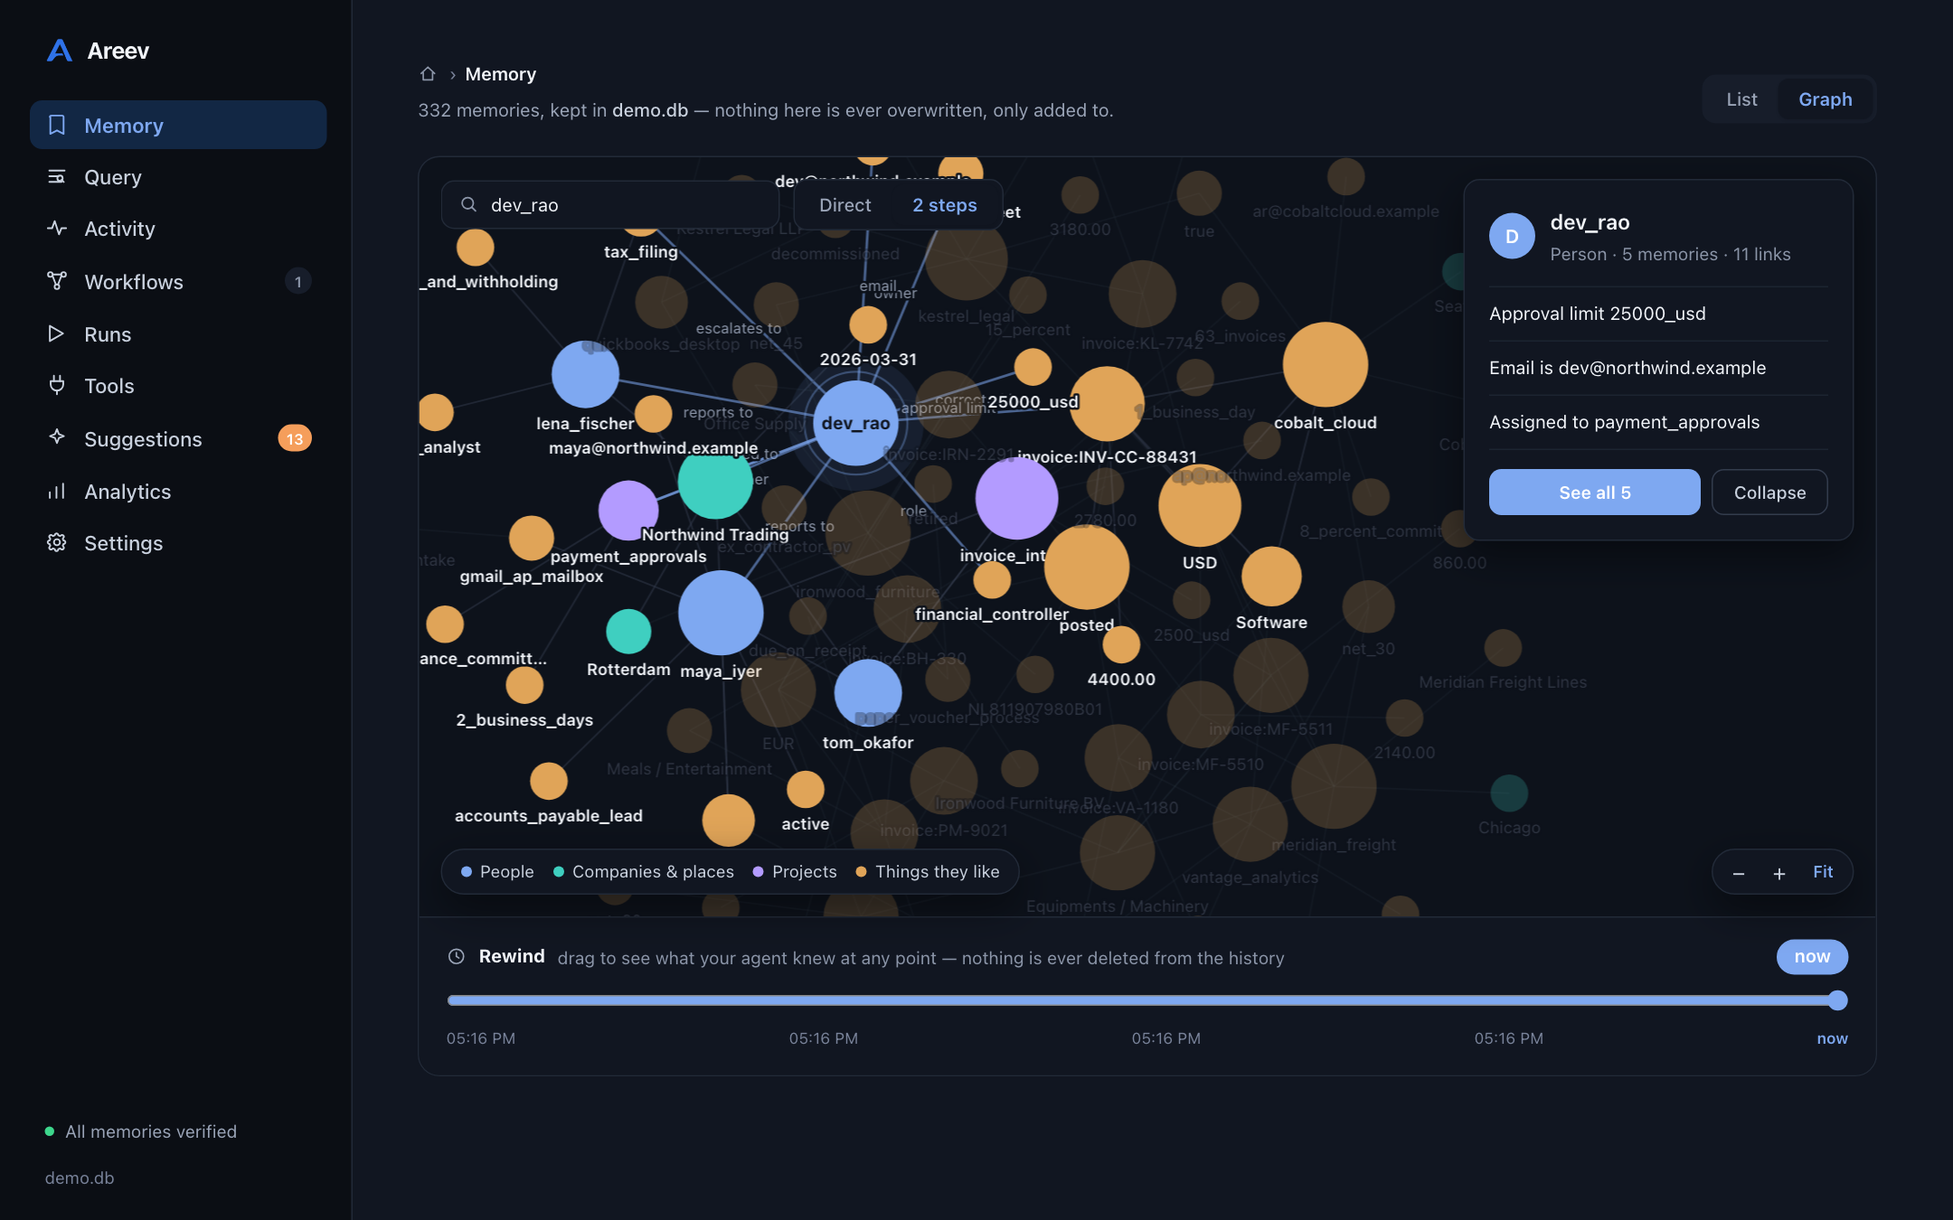
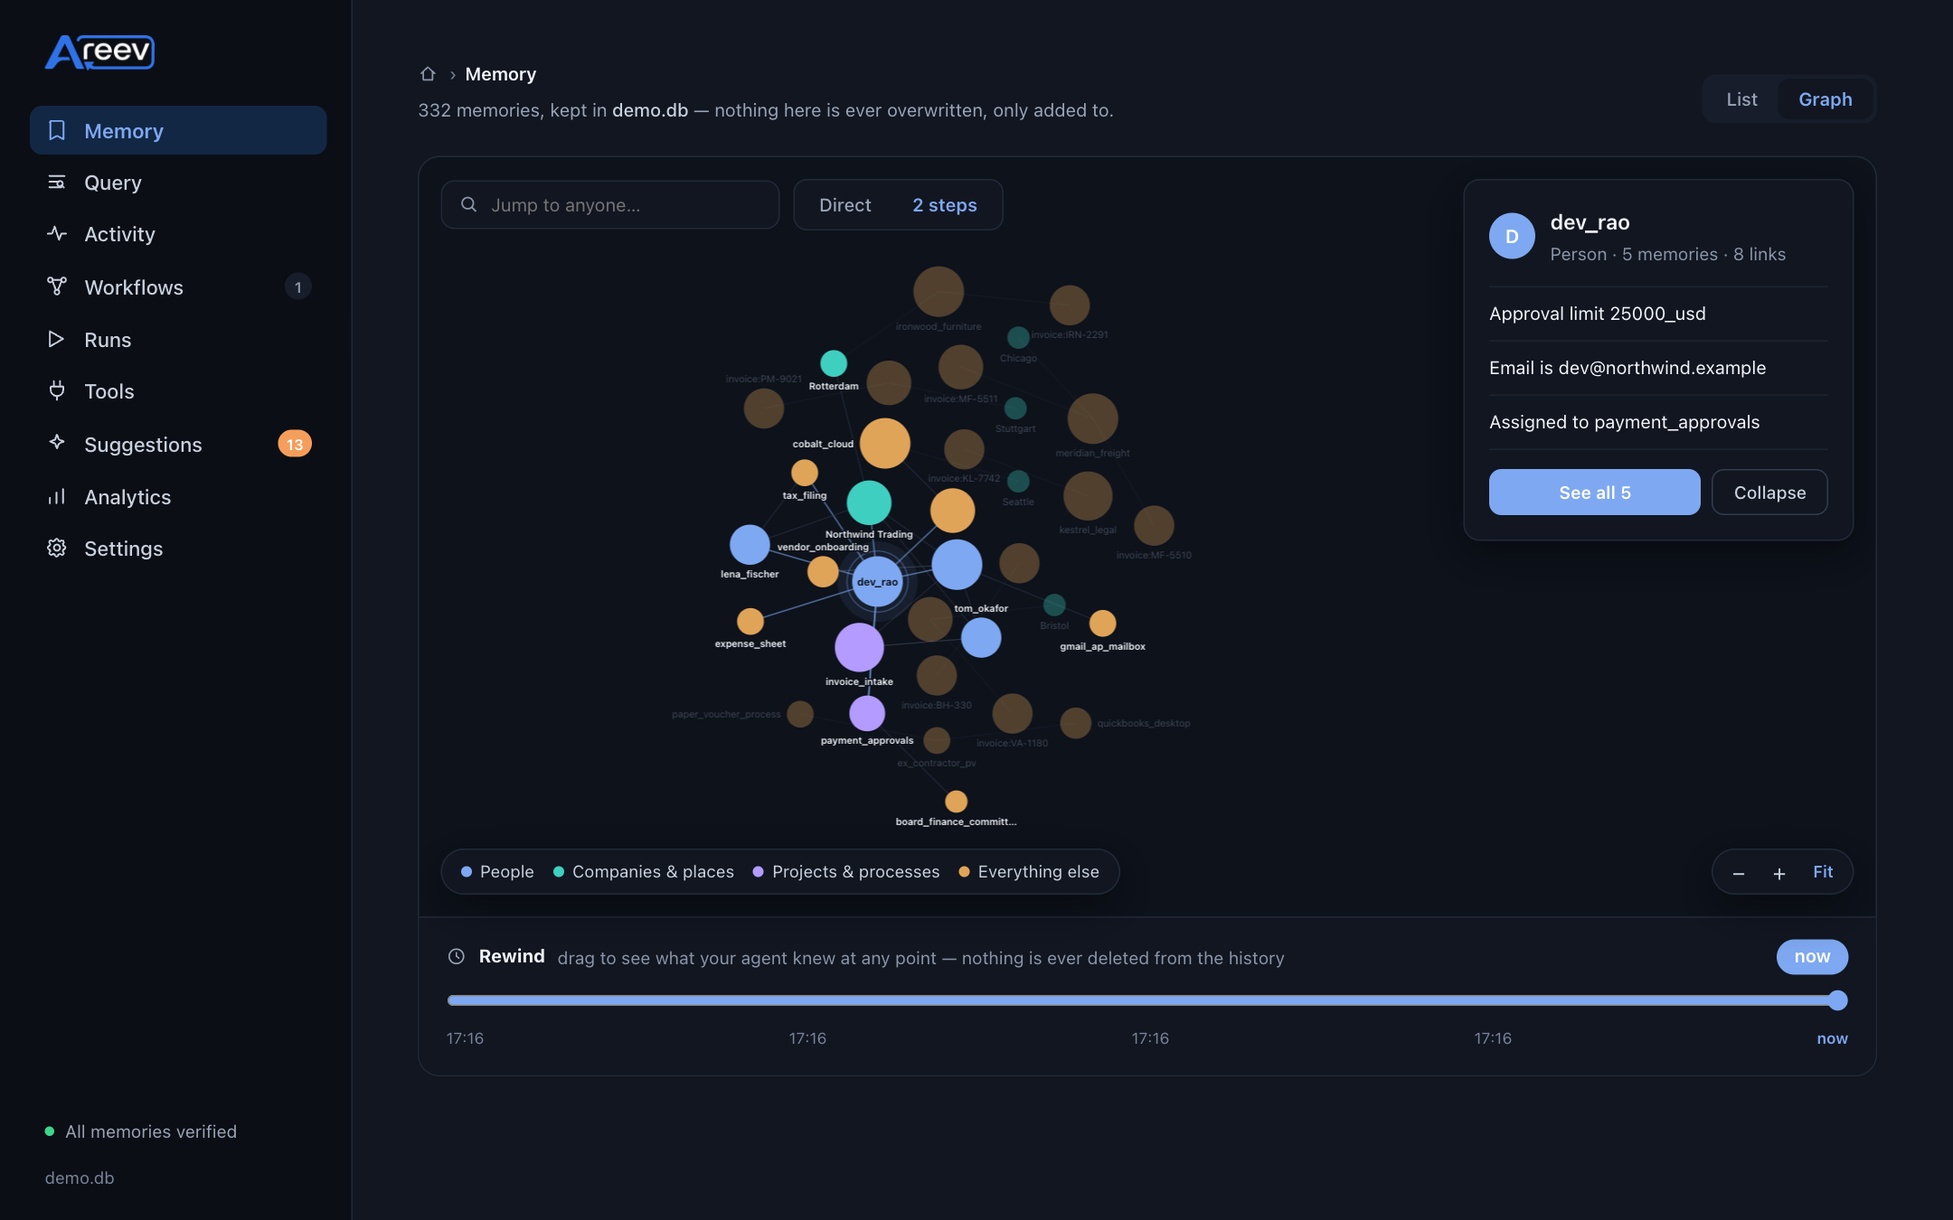
Console: the v2 wordmark, and a memory graph that draws entities
The graph drew every fact's right-hand side as a node, so `amount:
4400.00`, `currency: USD` and `payment_terms: net_45` were peers of the
people and vendors they describe: 91 nodes and 126 edges for a file that
holds about 35 real entities. An object is now kept only when the memory
also knows something ABOUT it (it is a subject somewhere too) or it
arrived through a relation that points at an entity — 35 nodes, 36 edges,
no orphans, and the accounts-payable story is legible: a reporting chain
at Northwind Trading, invoices pointing at their vendors, processes owned
by named people. A file whose relations we don't recognise could filter
down to nothing, so a graph left with fewer than three linked entities
falls back to unfiltered rather than an empty canvas.

Three things surfaced while re-shooting it:

- Labels printed on top of each other and across the circles. They are
  now placed by priority (focused node, then the relations coming off it,
  then names, near before far), each trying several positions before it
  is dropped, with the circles treated as obstacles.
- Start positions came from Math.random(), so every reload reshuffled the
  picture and no screenshot was reproducible. They are seeded from the
  node name instead; re-shooting now produces a byte-identical PNG.
- build() re-converged the whole layout on every call, which meant
  dragging the rewind scrubber shook the graph under the cursor. A
  rebuild that places nothing new keeps the positions it has.
[…]

diff --git a/crates/areev-server/src/console.html b/crates/areev-server/src/console.html
@@ -280,8 +280,17 @@
            font-family:inherit; text-align:left; cursor:pointer; width:100%; border-radius:9px;
            padding-top:4px; padding-bottom:4px; margin:-4px 0; transition:background .12s; }
   .brand:hover { background:var(--raise); }
-  .brand .mark { width:22px; height:22px; flex-shrink:0; display:block; }
-  .brand b { font-size:17px; font-weight:700; color:var(--ink); letter-spacing:-.02em; }
+  /* The full v2 lockup (A + reev + improvement loop), not the A alone —
+     two bitmaps because the dark variant sets `reev` in white, which
+     BRAND.md requires as its own artwork rather than a CSS recolor. */
+  .brand .logo { height:26px; width:auto; display:block; }
+  .brand .logo.dark { display:none; }
+  @media (prefers-color-scheme: dark) {
+    :root:not([data-theme="light"]) .brand .logo.light { display:none; }
+    :root:not([data-theme="light"]) .brand .logo.dark { display:block; }
+  }
+  :root[data-theme="dark"] .brand .logo.light { display:none; }
+  :root[data-theme="dark"] .brand .logo.dark { display:block; }
   .nav { display:flex; flex-direction:column; gap:2px; }
   .nav-item { display:flex; align-items:center; gap:11px; padding:9px 11px; border-radius:9px;
               cursor:pointer; color:var(--text); font-size:15px; font-weight:500; border:0; background:none;
@@ -520,7 +529,9 @@
   /* The canvas is the reason this page exists — give it the room, not a
      token box. Scales with the viewport rather than a fixed guess, with a
      floor for short windows. */
-  #wfcanvas { display:block; width:100%; height:calc(100vh - 260px); min-height:480px; cursor:default; }
+  /* A plan is a wide, short strip, so the floor here only needs to leave
+     room to drag a node clear of its row. */
+  #wfcanvas { display:block; width:100%; height:calc(100vh - 260px); min-height:380px; cursor:default; }
   #wfcanvas.connecting { cursor:crosshair; }
   #wftools { top:16px; left:16px; display:flex; align-items:center; gap:9px; background:none; border:0; box-shadow:none; }
   #wflegend { bottom:16px; left:16px; display:flex; align-items:center; flex-wrap:wrap; gap:8px 14px;
@@ -770,8 +781,8 @@
 <div id="shell">
   <nav id="rail">
     <button class="brand" id="brandBtn" type="button" title="Memory">
[1 lines of base64/hex data omitted]
-      <b>Areev</b>
[2 lines of base64/hex data omitted]
     </button>
 
     <div class="nav" id="nav">
@@ -1449,6 +1460,20 @@ const PERSONISH = new Set(['prefers','likes','dislikes','works_at','lives_in','e
 const ORGISH = new Set(['works_at','employed_by','member_of','customer_of']);
 const PROJECTISH = new Set(['owns_project','maintains','works_on','assigned_to']);
 const PLACEISH = new Set(['lives_in','based_in','headquartered_in','located_in']);
+/* Relations whose object is another entity; everything else names a VALUE
+   that belongs to its subject. `vendor: cobalt_cloud` is an edge between two
+   things the memory knows; `amount: 4400.00` is a property of one invoice,
+   and drawing it as a peer node is what turns a graph of twenty entities
+   into a hairball of two hundred. Used by the graph only — the list view
+   wants every value it can show. */
+const ENTITY_REL = new Set(['works_at','employed_by','member_of','customer_of','reports_to',
+  'assigned_to','owner','vendor','escalates_to','corrected_by','owns_project','maintains',
+  'works_on','knows','collaborates_with','lives_in','based_in','headquartered_in','located_in',
+  'manages','supervises','part_of','belongs_to','depends_on','supplier','contact','approver']);
+/* Plainly a literal — a number, an amount, a date, a boolean, a term like
+   `net_45`. Vetoed even under an entity relation, so an unfamiliar schema
+   cannot smuggle a scalar back in as a node. */
+const VALUEISH = /^(true|false|yes|no|none|null)$|^[\d.,]+$|^\d{4}-\d{2}-\d{2}|^\d[\d.,_]*\s*_?(usd|eur|gbp|percent|days?|business_days?|hours?|months?)$|^net_?\d+$/i;
 /* A tool call carries no subject, but it is plainly *about* the tool —
    without this every tool call falls into one anonymous "Everything else"
    heap. The graph opts out (a tool with no relations would be a lone dot). */
@@ -1458,13 +1483,23 @@ const subjectOf = (g, withTools) => {
 };
 function buildEntities(grains, opts) {
   const withTools = !(opts && opts.tools === false);
+  /* `entityObjects` keeps an object only when it is something the memory
+     knows ABOUT — it is a subject somewhere too, or it arrived through a
+     relation that points at an entity. The graph asks for this; every other
+     caller wants the values as well. */
+  const entityObjects = !!(opts && opts.entityObjects);
+  const subjects = new Set();
+  if (entityObjects) for (const g of grains) { const s = subjectOf(g, withTools); if (s) subjects.add(s); }
+  const keepObject = (rel, obj) => !entityObjects
+    || ((subjects.has(obj) || ENTITY_REL.has(rel)) && !VALUEISH.test(obj));
   const map = new Map();
   const ensure = n => { if (!map.has(n)) map.set(n, { name: n, kind: 'thing', count: 0, deg: 0 }); return map.get(n); };
   for (const g of grains) {
     const f = g.fields || {};
     const s = subjectOf(g, withTools);
     if (s) ensure(s).count++;
-    if (g.type === 'fact' && typeof f.object === 'string' && f.object && f.object.length <= 64) ensure(f.object).deg++;
+    if (g.type === 'fact' && typeof f.object === 'string' && f.object && f.object.length <= 64
+        && keepObject(f.relation || '', f.object)) ensure(f.object).deg++;
   }
   for (const g of grains) {
     const f = g.fields || {}, r = f.relation || '';
@@ -3479,6 +3514,19 @@ const Graph = (() => {
   function maxSeq() { return BROWSE.reduce((m, g) => Math.max(m, g.op_seq || 0), 0); }
   function cutSeq() { return Math.round(maxSeq() * cut); }
 
+  /* Start positions are derived from the name, not Math.random(): the same
+     file lays out the same way on every reload, so the picture you learned
+     yesterday is the picture you get today — and a screenshot of it is
+     reproducible. */
+  function seedPos(id) {
+    let h = 2166136261;
+    for (let i = 0; i < id.length; i++) { h ^= id.charCodeAt(i); h = Math.imul(h, 16777619); }
+    h >>>= 0;
+    /* Keep the starting spread tight — the settle pass below has a fixed
+       budget, and a wide ring leaves stragglers stranded outside it. */
+    const a = (h % 3600) / 3600 * Math.PI * 2, r = 25 + ((h >>> 12) % 135);
+    return { x: Math.cos(a) * r, y: Math.sin(a) * r };
+  }
   function build() {
     const limit = cutSeq();
     const upTo = BROWSE.filter(g => (g.op_seq || 0) <= limit)
@@ -3489,15 +3537,21 @@ const Graph = (() => {
        was live then, not the one that is live now */
     const heads = headHashes(upTo);
     const grains = upTo.filter(g => (g.type && g.type !== 'fact') || heads.has(g.hash));
-    const ents = buildEntities(grains, { tools: false });
+    /* Entities only. A memory whose relations we don't recognise could be
+       filtered down to nothing — if that happens, show it unfiltered rather
+       than an empty canvas. */
+    let ents = buildEntities(grains, { tools: false, entityObjects: true });
+    if (ents.filter(e => e.deg).length < 3) ents = buildEntities(grains, { tools: false });
     const keep = new Map();
     for (const e of ents) if (e.count || e.deg) keep.set(e.name, e);
     const prev = byId;
+    let placedAnew = false;
     nodes = []; links = []; byId = new Map();
     for (const e of keep.values()) {
       const old = prev.get(e.name);
+      if (!old) placedAnew = true;
       const n = { id: e.name, kind: e.kind, count: e.count, deg: e.deg,
-        x: old ? old.x : (Math.random() - .5) * 320, y: old ? old.y : (Math.random() - .5) * 320,
+        x: old ? old.x : seedPos(e.name).x, y: old ? old.y : seedPos(e.name).y,
         vx: 0, vy: 0, r: 0 };
       n.r = Math.max(13, Math.min(34, 12 + (e.count + e.deg) * 3));
       nodes.push(n); byId.set(n.id, n);
@@ -3513,10 +3567,21 @@ const Graph = (() => {
     if (!focus && nodes.length) focus = nodes.slice().sort((a, b) => (b.count + b.deg) - (a.count + a.deg))[0].id;
     computeNear();
     /* Settle before the first paint so fit() frames a finished layout
-       instead of chasing nodes that are still flying apart. */
-    alpha = 1;
-    for (let i = 0; i < 300; i++) tick();
-    alpha = 0.12;
+       instead of chasing nodes that are still flying apart. A rebuild that
+       placed nothing new — dragging the rewind scrubber, a data refresh —
+       keeps the layout it already has: re-converging the whole graph under
+       the cursor is what made scrubbing feel like an earthquake, and it
+       left the settled positions dependent on how many rebuilds happened
+       to run. */
+    if (placedAnew) {
+      alpha = 1;
+      for (let i = 0; i < 420; i++) tick();
+      alpha = 0.12;
+    } else {
+      alpha = 0.03;
+      for (let i = 0; i < 40; i++) tick();
+      alpha = 0.02;
+    }
   }
   function computeNear() {
     near = new Set();
@@ -3541,7 +3606,10 @@ const Graph = (() => {
         const b = nodes[j];
         let dx = b.x - a.x, dy = b.y - a.y;
         let d2 = dx * dx + dy * dy;
-        if (d2 < 1) { dx = Math.random() - .5; dy = Math.random() - .5; d2 = 1; }
+        /* Two nodes exactly on top of each other have no direction to push
+           apart in; nudge them deterministically so the layout stays
+           reproducible. */
+        if (d2 < 1) { dx = ((i % 7) - 3) / 7 || .5; dy = ((j % 5) - 2) / 5 || .5; d2 = 1; }
         if (d2 > 160000) continue;
         const f = (4200 * k) / d2;
         const d = Math.sqrt(d2);
@@ -3573,6 +3641,7 @@ const Graph = (() => {
     ctx.save();
     ctx.translate(W / 2 + tx, H / 2 + ty);
     ctx.scale(scale, scale);
+    const labels = [];
     /* links */
     for (const l of links) {
       const a = byId.get(l.a), b = byId.get(l.b);
@@ -3587,10 +3656,9 @@ const Graph = (() => {
          on top of the node names at either end. */
       const len = Math.hypot(b.x - a.x, b.y - a.y);
       if (lit && l.label && scale > 0.55 && len > 130) {
-        ctx.globalAlpha = 1;
         const nx = -(b.y - a.y) / len, ny = (b.x - a.x) / len;   /* perpendicular */
-        halo(l.label, (a.x + b.x) / 2 + nx * 11, (a.y + b.y) / 2 + ny * 11 + 4,
-          '12px ' + cssVar('--sans'), colors.dim);
+        labels.push({ pri: 1, text: l.label, edge: [(a.x + b.x) / 2, (a.y + b.y) / 2, nx, ny],
+          font: '12px ' + cssVar('--sans'), fill: colors.dim, alpha: 1 });
       }
     }
     /* nodes */
@@ -3603,20 +3671,58 @@ const Graph = (() => {
         ctx.globalAlpha = 0.35; ctx.strokeStyle = c; ctx.lineWidth = 1.6;
         ctx.beginPath(); ctx.arc(n.x, n.y, n.r + 7, 0, 7); ctx.stroke();
       }
-      ctx.globalAlpha = on ? 1 : 0.22;
+      ctx.globalAlpha = on ? 1 : 0.32;
       ctx.fillStyle = c;
       ctx.beginPath(); ctx.arc(n.x, n.y, n.r, 0, 7); ctx.fill();
       if (hover === n.id) { ctx.globalAlpha = 1; ctx.strokeStyle = colors.ink; ctx.lineWidth = 2;
         ctx.beginPath(); ctx.arc(n.x, n.y, n.r + 3, 0, 7); ctx.stroke(); }
-      ctx.globalAlpha = on ? 1 : 0.3;
       if (n.id === focus && n.r > 24) {
-        ctx.textAlign = 'center';
-        ctx.fillStyle = colors.surface;
-        ctx.font = '700 14px ' + cssVar('--sans');
-        ctx.fillText(clip(n.id, 12), n.x, n.y + 5);
+        labels.push({ pri: 0, nid: n.id, text: clip(n.id, 12), x: n.x, y: n.y + 5, inside: true,
+          font: '700 14px ' + cssVar('--sans'), fill: colors.surface, alpha: 1 });
       } else {
-        halo(clip(n.id, 22), n.x, n.y + n.r + 17,
-          (on ? '600 ' : '') + '13px ' + cssVar('--sans'), on ? colors.ink : colors.faint);
+        labels.push({ pri: on ? 2 : 3, nid: n.id, text: clip(n.id, 22), x: n.x, y: n.y, r: n.r,
+          font: (on ? '600 ' : '') + '13px ' + cssVar('--sans'),
+          fill: on ? colors.ink : colors.faint, alpha: on ? 1 : 0.45 });
+      }
+    }
+    /* ── labels ──
+       Node names and relation names compete for the same pixels, so they
+       are placed by priority — the focused node, then the relations coming
+       off it, then names, near before far — and one that would land on a
+       label already placed is dropped. A missing label is recoverable by
+       hovering or zooming; two labels stacked on each other are not. */
+    /* The circles are obstacles too — a name printed across a node reads as
+       that node's name. Every label may sit on its OWN circle, which is how
+       the focused node carries its name inside itself. */
+    const placed = nodes.map(n => ({ nid: n.id, b: [n.x - n.r, n.y - n.r, n.x + n.r, n.y + n.r] }));
+    /* Where a label may go, best spot first: a name prefers to sit under its
+       node but will take any side; a relation prefers the outside of its
+       edge but will take the other. Only when every spot is taken is the
+       label dropped. */
+    const spots = (L, w) => L.inside ? [[L.x, L.y]]
+      : L.edge ? [[L.edge[0] + L.edge[2] * 13, L.edge[1] + L.edge[3] * 13 + 4],
+                  [L.edge[0] - L.edge[2] * 13, L.edge[1] - L.edge[3] * 13 + 4],
+                  [L.edge[0] + L.edge[2] * 26, L.edge[1] + L.edge[3] * 26 + 4],
+                  [L.edge[0] - L.edge[2] * 26, L.edge[1] - L.edge[3] * 26 + 4]]
+      : [[L.x, L.y + L.r + 17], [L.x, L.y - L.r - 8],
+         [L.x + L.r + w + 6, L.y + 5], [L.x - L.r - w - 6, L.y + 5]];
+    for (const L of labels.sort((x, y) => x.pri - y.pri)) {
+      ctx.font = L.font;
+      const w = ctx.measureText(L.text).width / 2 + 2;
+      for (const [sx, sy] of spots(L, w)) {
+        const box = [sx - w, sy - 12, sx + w, sy + 3];
+        let clash = false;
+        for (const o of placed) {
+          if (o.nid && o.nid === L.nid) continue;
+          const b = o.b;
+          if (box[0] < b[2] && box[2] > b[0] && box[1] < b[3] && box[3] > b[1]) { clash = true; break; }
+        }
+        if (clash) continue;
+        placed.push({ nid: null, b: box });
+        ctx.globalAlpha = L.alpha;
+        if (L.inside) { ctx.textAlign = 'center'; ctx.fillStyle = L.fill; ctx.fillText(L.text, sx, sy); }
+        else halo(L.text, sx, sy, L.font, L.fill);
+        break;
       }
     }
     ctx.restore();
@@ -3666,7 +3772,9 @@ const Graph = (() => {
     const padR = $('ginspect').hidden ? 24 : 312;
     const padT = 64, padB = 60, padL = 24;
     const availW = Math.max(160, W - padL - padR), availH = Math.max(160, H - padT - padB);
-    scale = Math.max(0.25, Math.min(1.4, Math.min(availW / (x1 - x0), availH / (y1 - y0))));
+    /* 2.2, not 1.4: a memory with a few dozen entities used to sit as a
+       small cluster marooned in a large canvas. */
+    scale = Math.max(0.25, Math.min(2.2, Math.min(availW / (x1 - x0), availH / (y1 - y0))));
     tx = (padL + availW / 2) - W / 2 - ((x0 + x1) / 2) * scale;
     ty = (padT + availH / 2) - H / 2 - ((y0 + y1) / 2) * scale;
   }
@@ -3712,8 +3820,12 @@ const Graph = (() => {
   }
   function legend() {
     const host = $('glegend'); host.textContent = '';
-    const items = [['person', 'People'], ['org', 'Companies & places'], ['project', 'Projects'],
-      ['thing', 'Things they like'], ['note', 'Things it noticed']];
+    /* Neutral words: this legend labels whatever the file happens to hold.
+       "Things they like" read as a personal-assistant memory and misnamed
+       every invoice and process in a business one. */
+    const items = [['person', 'People'], ['org', 'Companies & places'],
+      ['project', 'Projects & processes'], ['thing', 'Everything else'],
+      ['note', 'Things it noticed']];
     const present = new Set(nodes.map(n => n.kind));
     for (const [k, label] of items) {
       if (!present.has(k)) continue;

diff --git a/README.md b/README.md
@@ -182,6 +182,32 @@ its state with the [pip adapters](docs/quickstart.md#keep-your-langgraph-or-crew
 
 ---
 
+## See it yourself
+
+The demo memory behind every screenshot is committed to this repo — 466
+grains, 9 governed runs, 13 real recommendations, one open fork:
+
+```bash
+areev ui --db data/demo.db --ns accounting     # → http://127.0.0.1:7437
+```
+
+<p align="center">
+  <picture>
+    <source media="(prefers-color-scheme: dark)" srcset="demo/screens/graph-dark.png">
+    <img src="demo/screens/graph-light.png" width="900"
+         alt="The Areev console: the entities in an agent's memory — people, vendors, invoices, processes — drawn as a provenance graph around a focused person, with a rewind scrubber along the bottom">
+  </picture>
+</p>
+
+<p align="center"><em>The people, vendors, invoices and processes this agent knows — as a graph you can walk, and rewind.<br>
+A real console over the real <a href="data/demo.db"><code>demo.db</code></a> in this repo. Nothing here is a mockup.</em></p>
+
+Rebuild it from scratch with [`scripts/build_demo.sh`](scripts/build_demo.sh):
+every run in it is a real journal and every recommendation is a real analyzer
+output, not rows written to look convincing.
+
+---
+
 ## The execution graph — runs a person can gate
 
 <p align="center">
@@ -317,30 +343,6 @@ How each number is produced, and the benchmark receipts:
 [LoCoMo accuracy + honesty metrics](crates/areev-bench/RESULTS.md).
 
 ---
-
-## See it yourself
-
-The demo memory behind every screenshot is committed to this repo — 466
-grains, 9 governed runs, 13 real recommendations, one open fork:
-
-```bash
-areev ui --db data/demo.db --ns accounting     # → http://127.0.0.1:7437
-```
-
-<p align="center">
-  <picture>
-    <source media="(prefers-color-scheme: dark)" srcset="demo/screens/graph-dark.png">
-    <img src="demo/screens/graph-light.png" width="900"
-         alt="The Areev console: an agent's memory as a provenance graph, with a rewind scrubber along the bottom">
-  </picture>
-</p>
-
-<p align="center"><em>Every memory the agent holds, as a graph you can walk — and rewind.<br>
-A real console over the real <a href="data/demo.db"><code>demo.db</code></a> in this repo. Nothing here is a mockup.</em></p>
-
-Rebuild it from scratch with [`scripts/build_demo.sh`](scripts/build_demo.sh):
-every run in it is a real journal and every recommendation is a real analyzer
-output, not rows written to look convincing.
 
 ## Documentation
 
